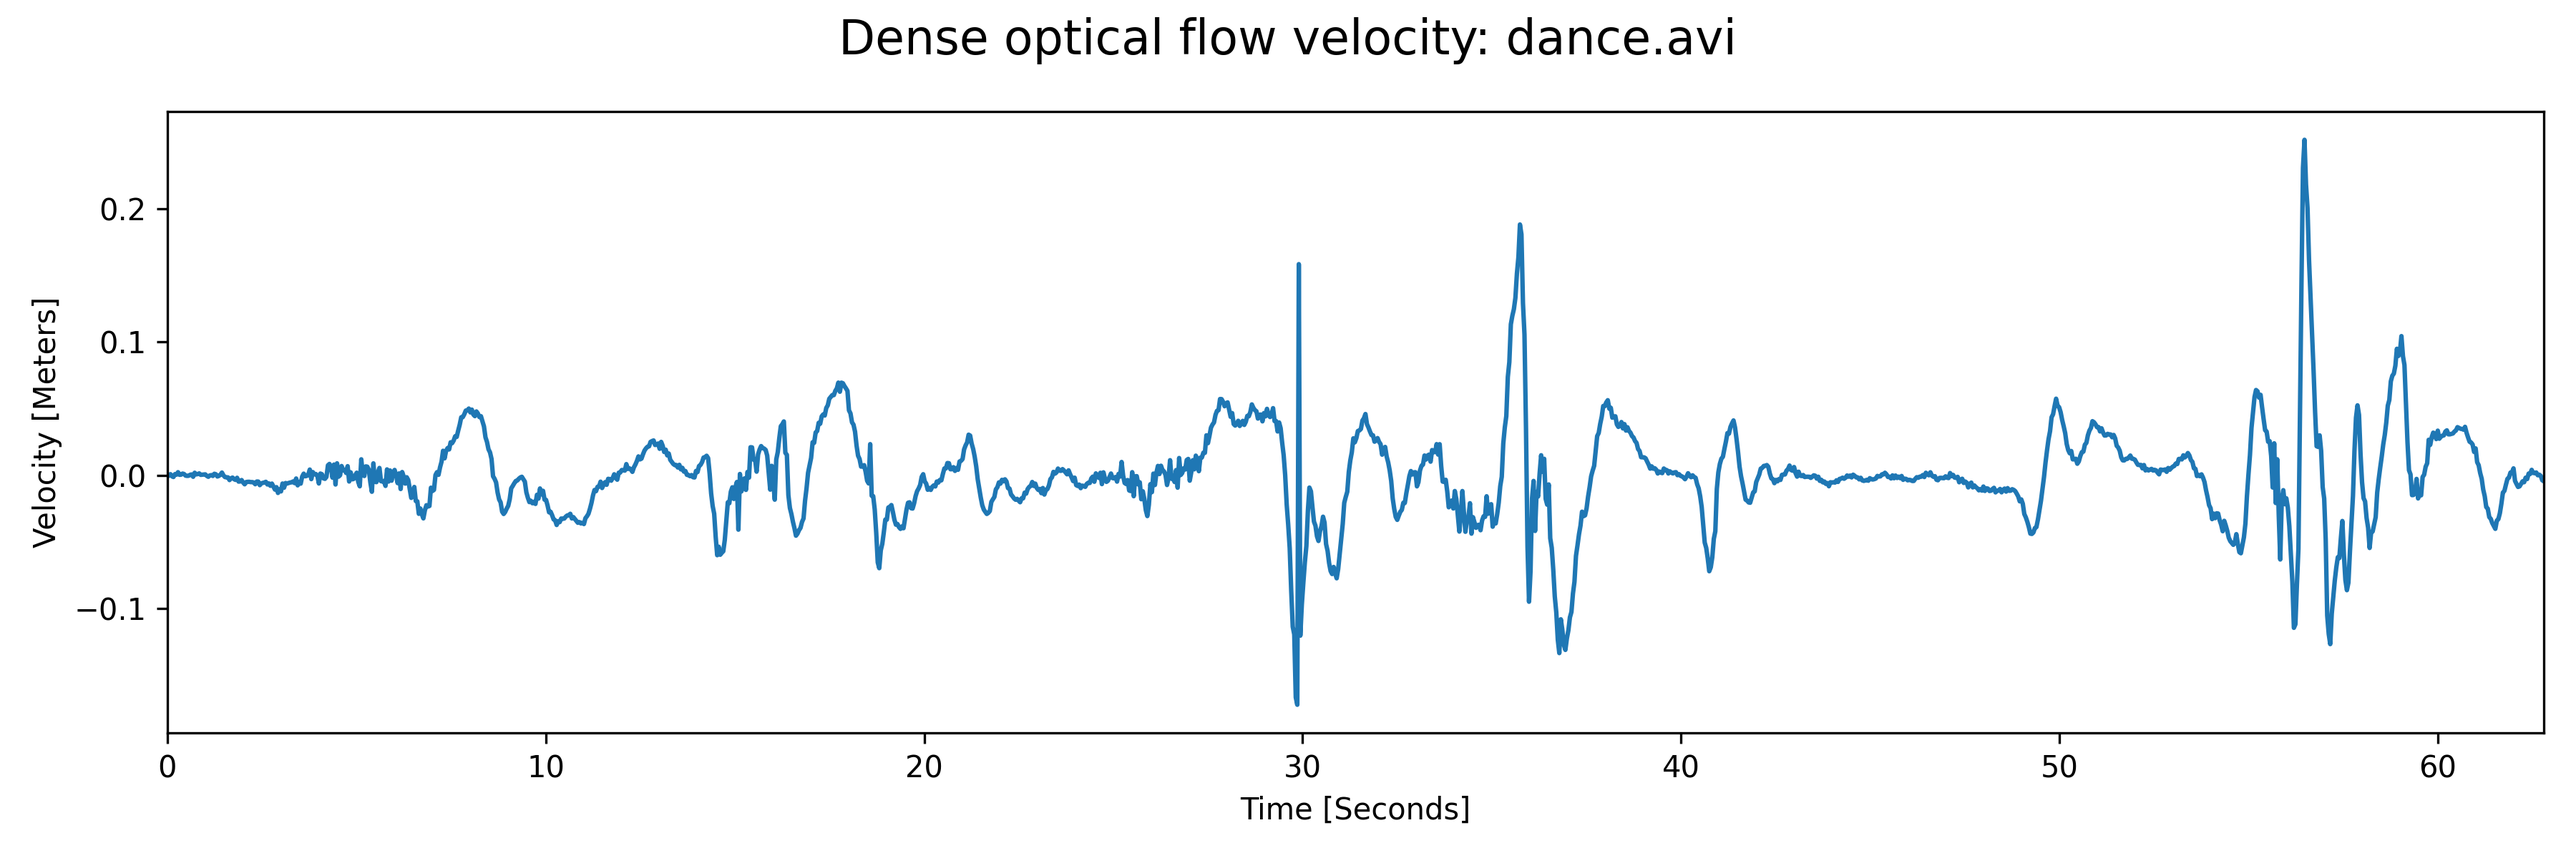
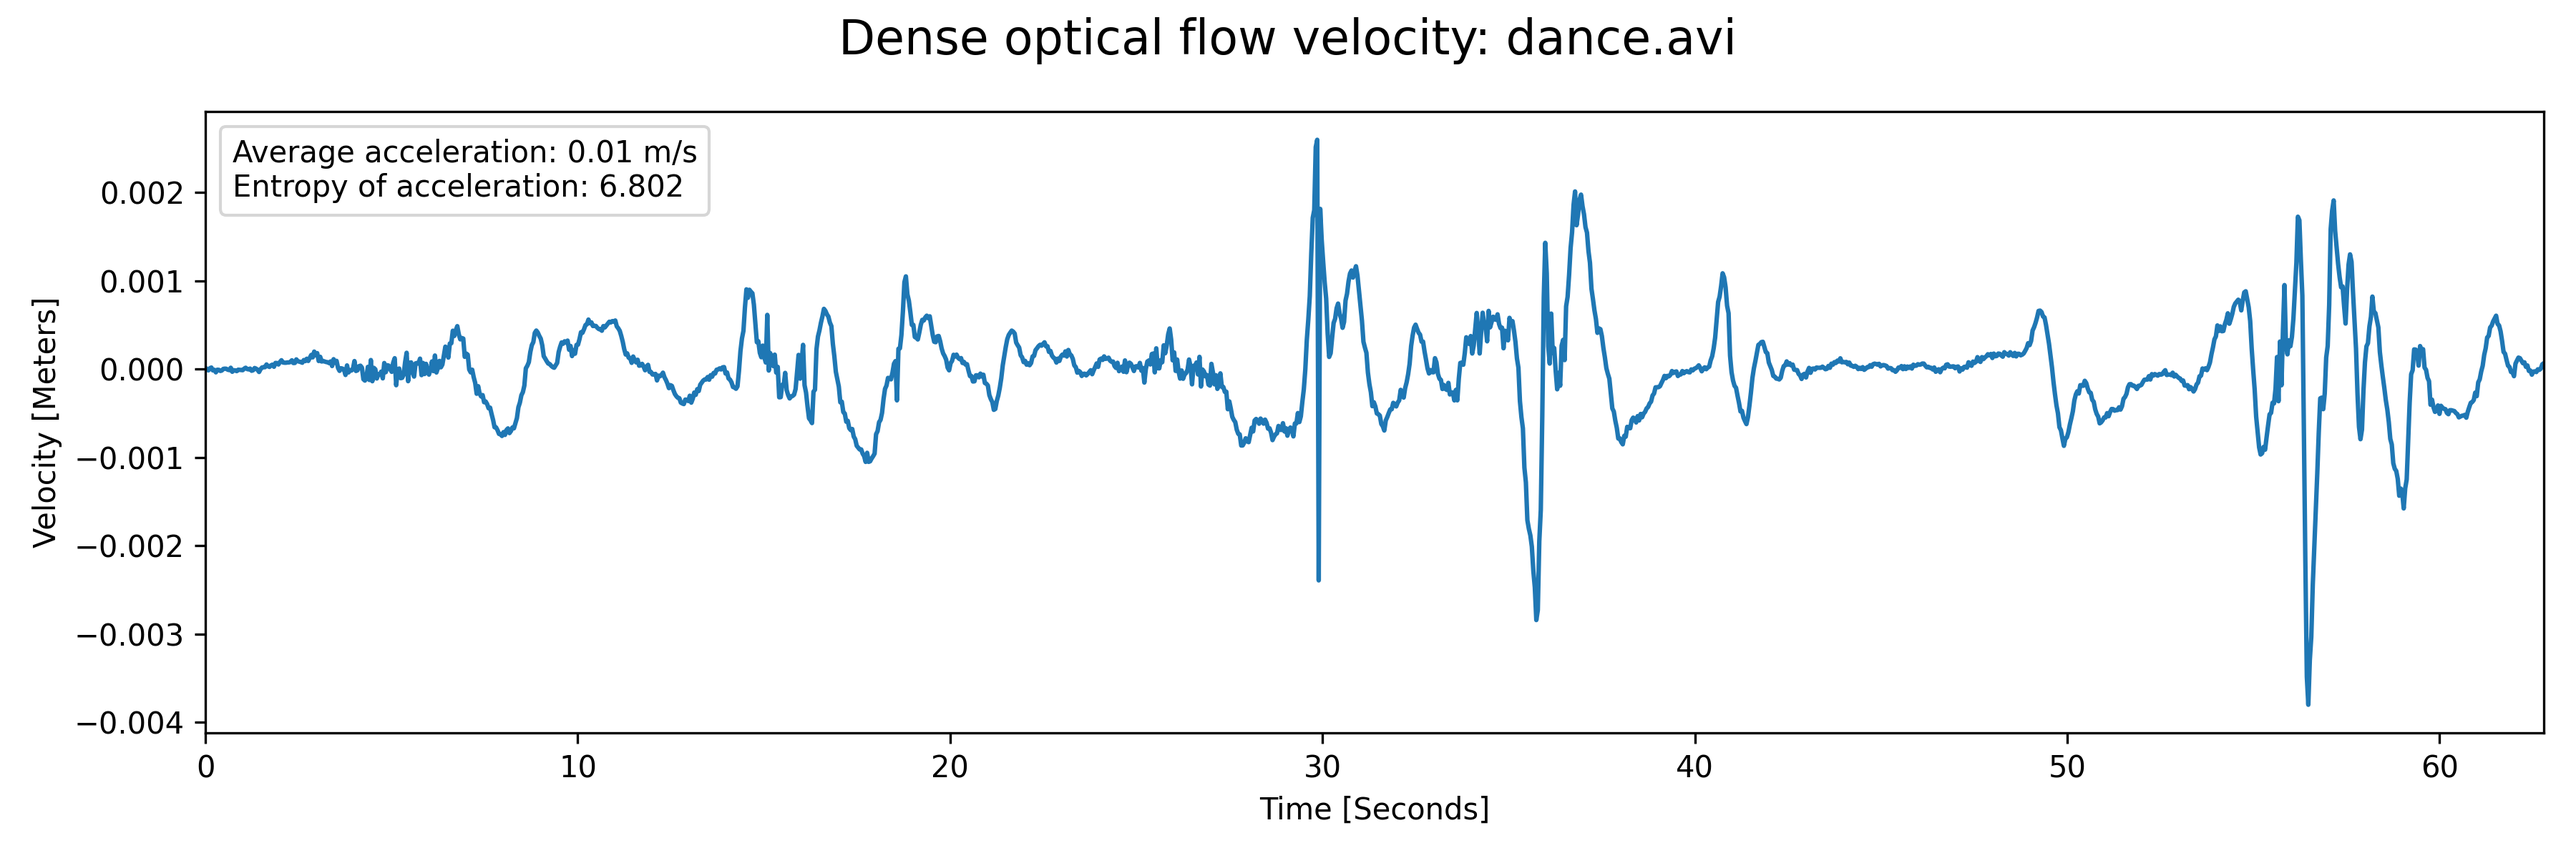
Add dense optical flow entropy of acceleration

diff --git a/musicalgestures/_flow.py b/musicalgestures/_flow.py
@@ -4,6 +4,7 @@ import numpy as np
 import math
 import weakref
 import matplotlib.pyplot as plt
+from scipy.stats import entropy
 
 import musicalgestures
 from musicalgestures._utils import MgFigure, extract_wav, embed_audio_in_video, MgProgressbar, convert_to_avi, generate_outfilename
@@ -190,11 +191,14 @@ class Flow:
             fig.suptitle(title, fontsize=16)
 
             time = np.linspace(0, len(xvel)/fps, len(xvel))
+            acceleration = self.get_acceleration(xvel, fps)
+            acceleration_entropy = entropy(acceleration)
 
-            ax.plot(time, xvel)
+            ax.plot(time, xvel, label=f'Average acceleration: {round(np.mean(acceleration),2)} m/s\nEntropy of acceleration: {round(acceleration_entropy,3)}')
             ax.set_xlabel('Time [Seconds]')
             ax.set_ylabel('Velocity [Meters]')
             ax.margins(x=0)
+            ax.legend(handlelength=0, handletextpad=0, fancybox=True)
 
             fig.tight_layout()
 
@@ -242,6 +246,15 @@ class Flow:
 
             return self.parent().flow_dense_video
 
+    def get_acceleration(self, velocity, fps):
+
+        acceleration = np.zeros(len(velocity))
+        velocity = np.abs(velocity)
+        
+        for i in range(len(acceleration)-1):
+            acceleration[i] = ((velocity[i+1] + velocity[i]) - velocity[i]) / (1/fps)
+            
+        return acceleration[:-1]
 
     def get_velocity(self, flow, sum_flow_pixels, flow_shape, distance_meters, timestep_seconds, move_step, angle_of_view):
 
@@ -257,7 +270,6 @@ class Flow:
         pixels_per_meter = distance_pixels / distance_meters
 
         return velocity_pixels_per_second / pixels_per_meter
-
 
     def sparse(
             self,
